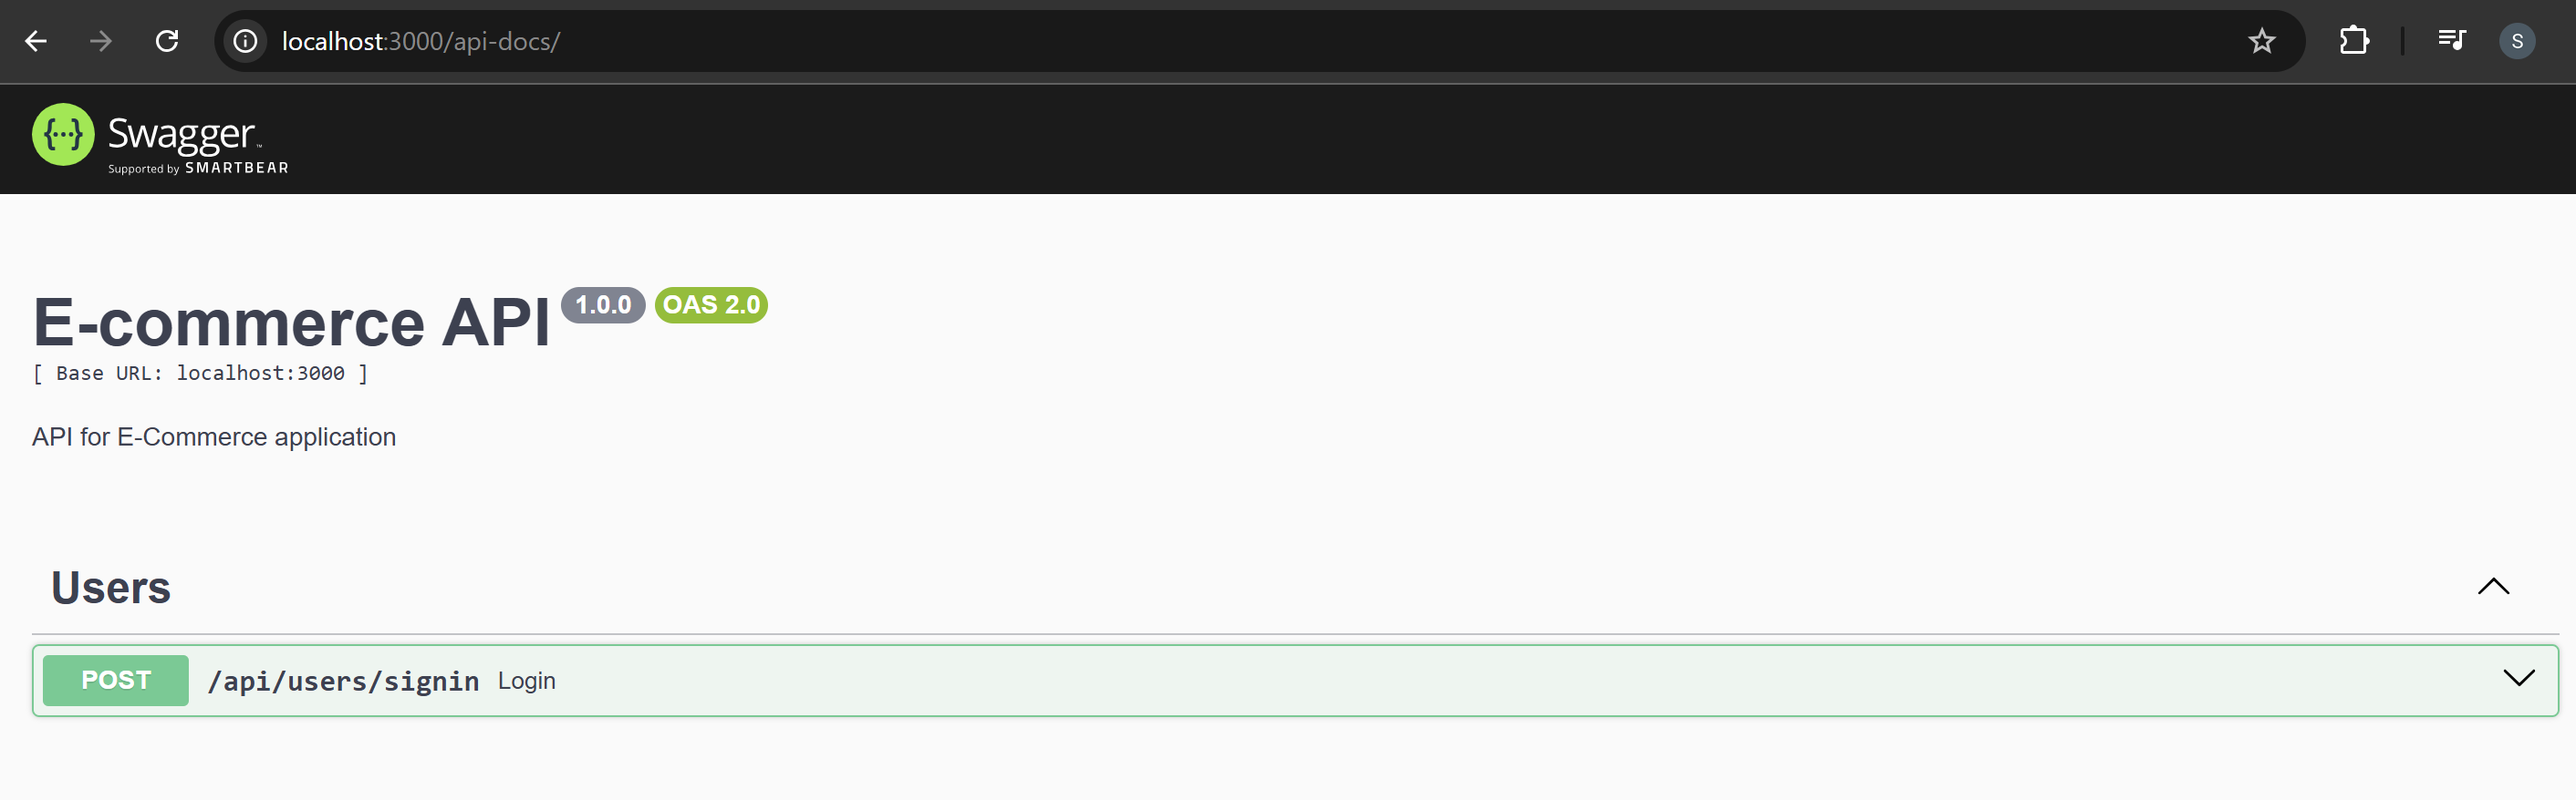
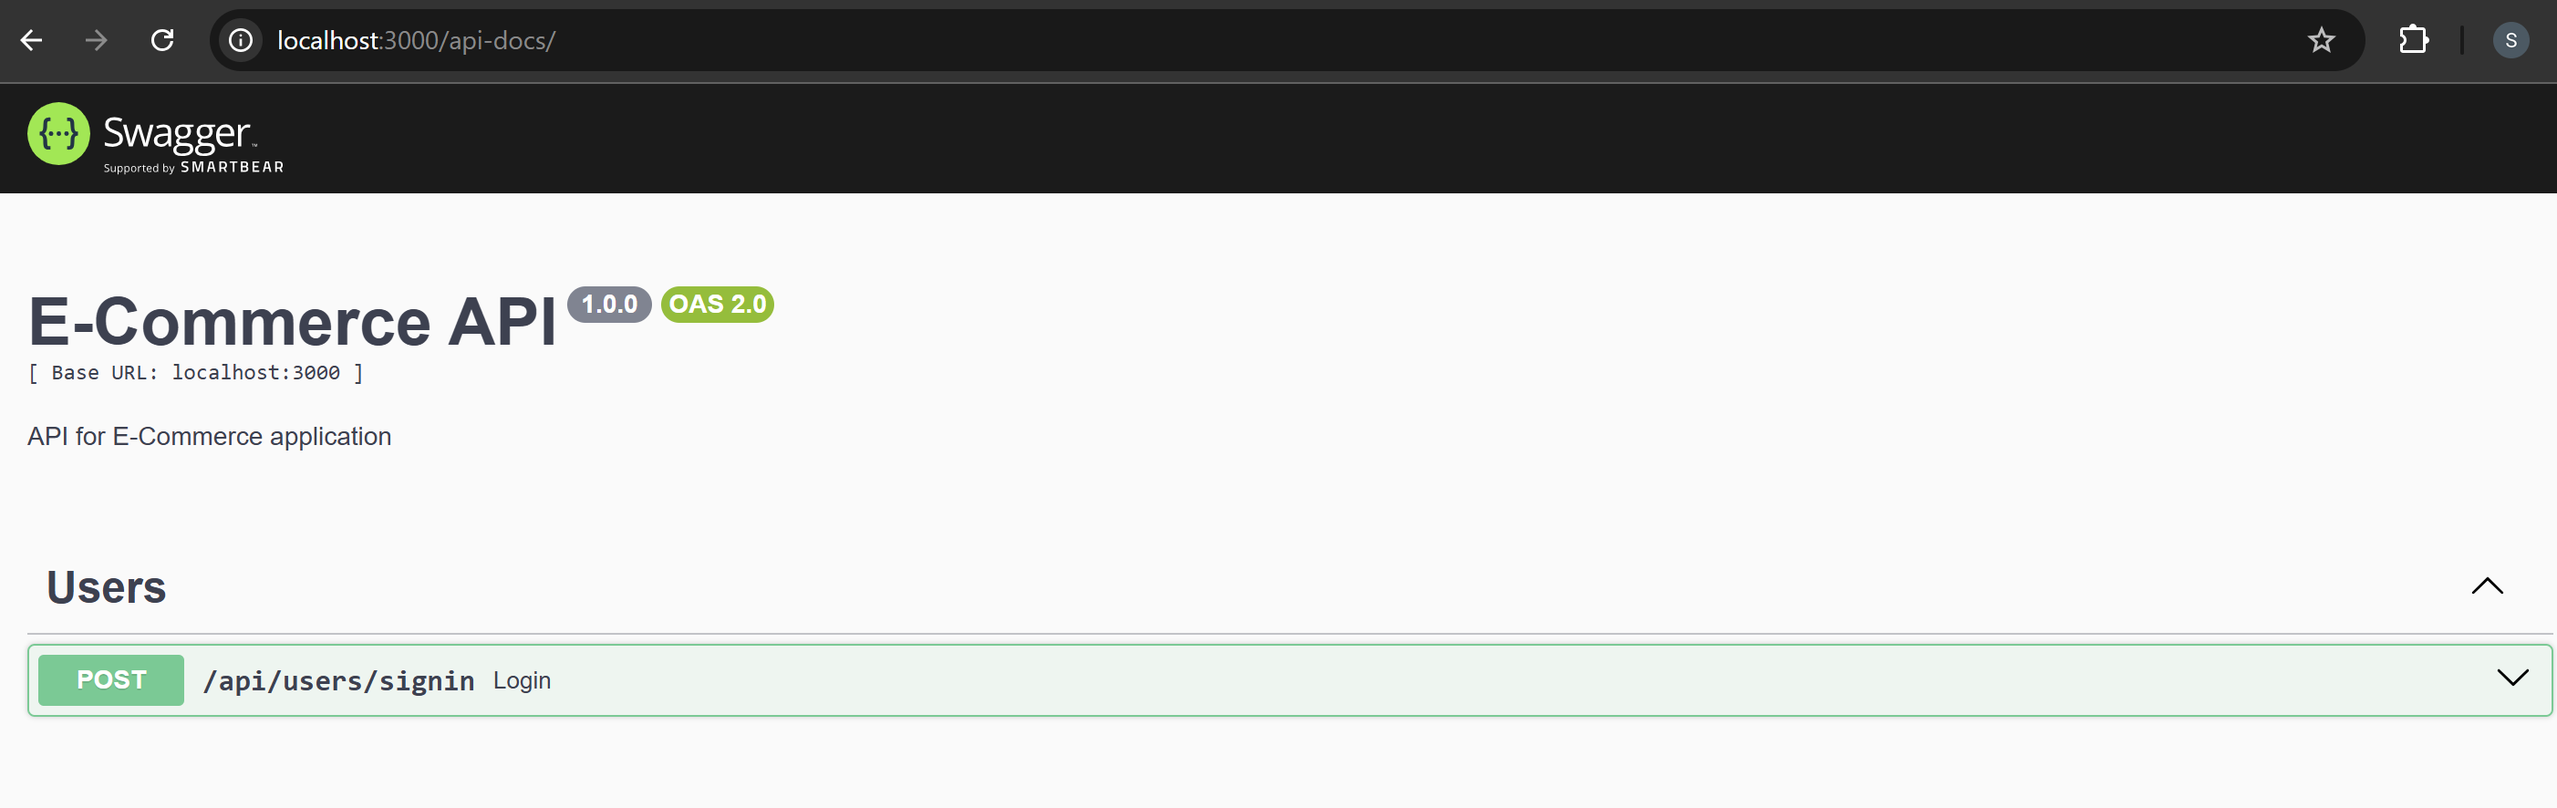
Added: Testing Swagger

diff --git a/docs/MORE-FEATURES.md b/docs/MORE-FEATURES.md
@@ -480,6 +480,7 @@ understand and interact with our APIs.
 - We will use the `swagger-ui-express` package to implement Swagger in our
   application. (Link)
 - Install the package using the command: `
+
 ```bash
   npm install swagger-ui-express
 ```
@@ -489,16 +490,16 @@ understand and interact with our APIs.
 1. Create a JSON file called `swagger.json` to define the API documentation.
 2. Start by specifying the Swagger version as 2.0.
 3. Provide basic information about your API, including the version, description,
-  and title.
+   and title.
 4. Define the `host` where your API is hosted (e.g., `localhost:3000`).
 5. Specify the paths for your API endpoints (e.g., `/api/products`,
-  `/api/users/signin`).
+   `/api/users/signin`).
 6. For each path, define the request methods (e.g., GET, POST) and include a
-  summary and description.
+   summary and description.
 7. Define the parameters for each request, such as query parameters or request
-  body.
+   body.
 8. Specify the expected responses for each request, including status codes and
-  descriptions.
+   descriptions.
 
 #### swagger.json file:
 
@@ -508,7 +509,7 @@ understand and interact with our APIs.
   "info": {
     "version": "1.0.0",
     "description": "API for E-Commerce application",
-    "title": "E-commerce API"
+    "title": "E-Commerce API"
   },
   "host": "localhost:3000",
   "paths": {
@@ -552,11 +553,11 @@ understand and interact with our APIs.
 ### Configuring Swagger in the Express Server
 
 1. Import the `swagger-ui-express` and `swagger.json` files into your Express
-  server.
+   server.
 2. Create a route (e.g., `/api-docs/` or `/api/docs`) to expose the Swagger UI.
 3. Use the `swagger.serve` middleware to create the Swagger UI.
 4. Configure the Swagger UI using `swagger.setup` and pass the imported
-  `swagger.json` object
+   `swagger.json` object
 
 ```javascript
 import swagger from "swagger-ui-express";
@@ -576,3 +577,112 @@ server.use("/api-docs", swagger.serve, swagger.setup(apiDocs));
 <img src="./images/swagger_api_docs1.png" alt="API Docs Swagger" width="700" height="auto">
 
 <img src="./images/swagger_post_api_users_signin.png" alt="Swagger User SignIn" width="700" height="auto">
+
+## Testing Swagger
+
+We have implemented Swagger in our Node.js Express application and created
+documentation for the sign-in API. Now, we will explore how to test our API using the
+Swagger UI.
+
+<img src="./images/swagger_api_docs2.png" alt="API Docs Swagger" width="700" height="auto">
+
+### Testing the Sign-In API
+
+1. In the Swagger UI, locate the sign-in API documentation.
+2. Click on "Try it out" and enter the predefined credentials.
+
+<img src="./images/swagger_userSignIn_execute.png" alt="Swagger User SignIn Execute" width="700" height="auto">
+
+3. Execute the request and verify the response.
+4. The response should include a token that can be used for subsequent API
+   calls.
+
+<img src="./images/swagger_userSignIn_response.png" alt="Swagger User SignIn Response" width="700" height="auto">
+
+### Testing the Get-Products API
+
+1. Authorize: Copy the JWT token from the sign-in response, click "Authorize" at the top, paste the token, click the "Authorize" button, and then close.
+
+<img src="./images/swagger_authorize_jwtToken.png" alt="Swagger Authorize JWT token" width="700" height="auto">
+
+<img src="./images/swagger_authorization_success.png" alt="Swagger Authorization Successful" width="700" height="auto">
+
+2. Execute: Click "Try it out" for the Get Products API and execute.
+
+<img src="./images/swagger_getProducts_execute.png" alt="Swagger Get Products Execute" width="700" height="auto">
+
+3. Verify: If authorization is successful, the response includes all products for future API calls.
+
+<img src="./images/swagger_getProducts_response.png" alt="Swagger Get Products Response" width="700" height="auto">
+
+#### Updated 'swagger.json' file:
+
+```json
+{
+  "swagger": "2.0",
+  "info": {
+    "version": "1.0.0",
+    "description": "API for E-Commerce application",
+    "title": "E-Commerce API"
+  },
+  "host": "localhost:3000",
+  "securityDefinitions": {
+    "JWT": {
+      "in": "header",
+      "name": "Authorization",
+      "type": "apiKey"
+    }
+  },
+  "paths": {
+    "/api/products": {
+      "get": {
+        "tags": ["Products"],
+        "summary": "Get Products",
+        "description": "User will get all products",
+        "security": [{ "JWT": {} }],
+        "responses": {
+          "200": {
+            "description": "OK"
+          },
+          "401": {
+            "description": "Unauthorized"
+          }
+        }
+      }
+    },
+    "/api/users/signin": {
+      "post": {
+        "tags": ["Users"],
+        "summary": "Login",
+        "description": "User login to get token",
+        "parameters": [
+          {
+            "in": "body",
+            "name": "body",
+            "description": "User Credentials",
+            "schema": {
+              "type": "object",
+              "properties": {
+                "email": {
+                  "type": "string"
+                },
+                "password": {
+                  "type": "string"
+                }
+              }
+            }
+          }
+        ],
+        "responses": {
+          "200": {
+            "description": "OK"
+          },
+          "400": {
+            "description": "Invalid Credentials !"
+          }
+        }
+      }
+    }
+  }
+}
+```
